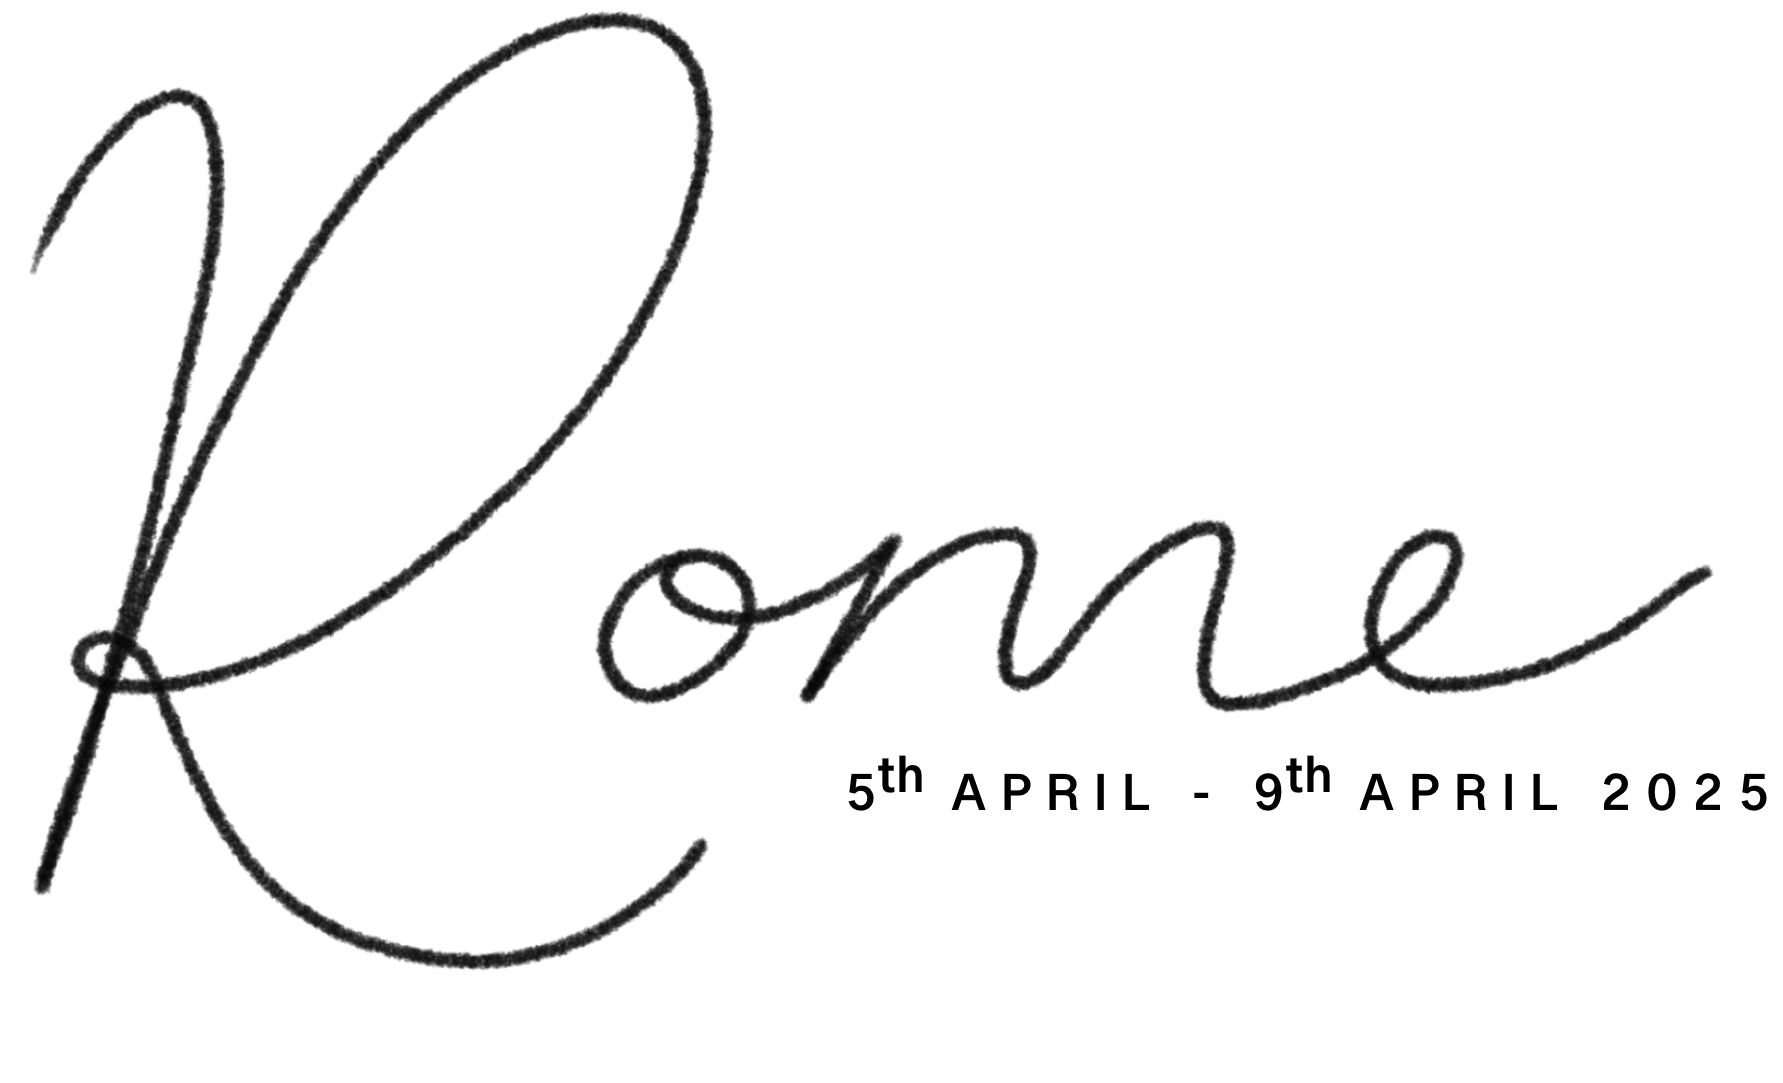
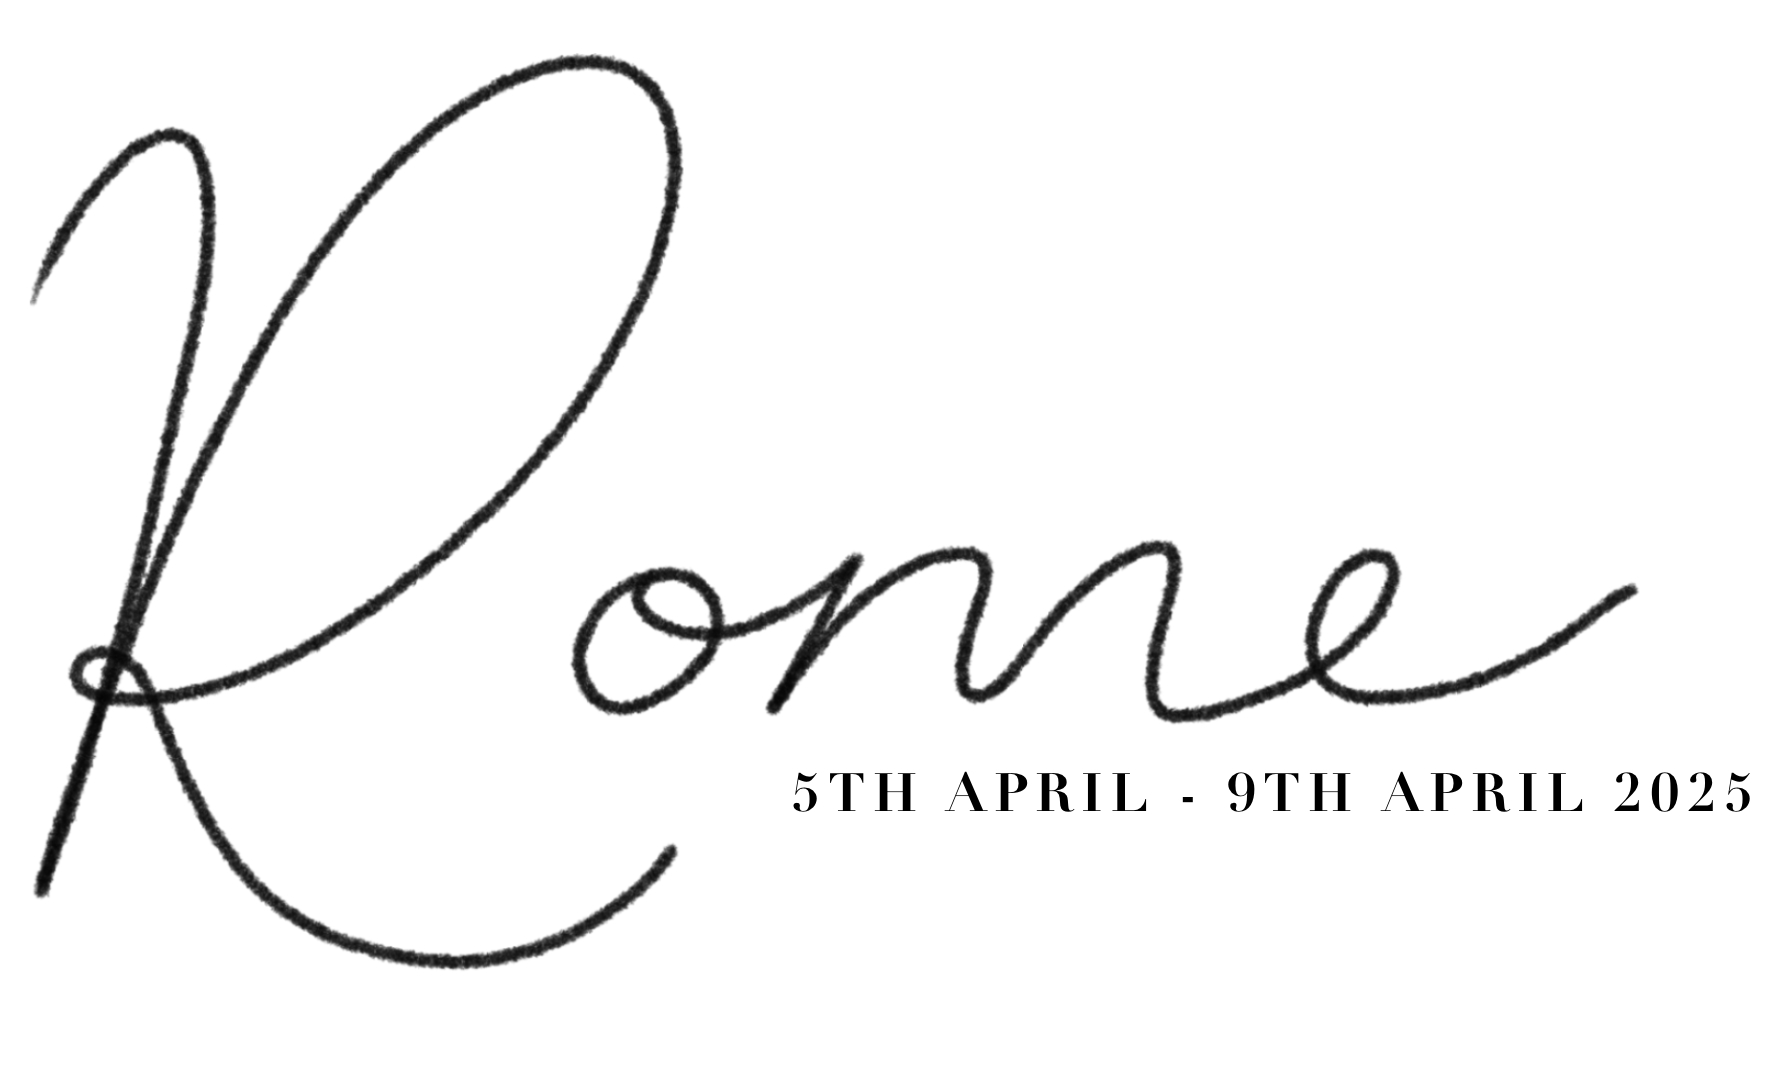
refined CSS and removed container div - added noted for learning

diff --git a/index.css b/index.css
@@ -1,122 +1,151 @@
+/* Define CSS variables for better consistency */
+:root {
+  --primary-font: 'GFS Didot', serif; /* Primary font */
+  --background-color: #f8f9fa; /* Background color for the page */
+  --button-bg: white; /* Default button background */
+  --button-hover-bg: #aeb0a4; /* Button background on hover */
+  --button-text: black; /* Default button text color */
+  --button-hover-text: white; /* Button text color on hover */
+}
+
+/* Apply global styles to the body */
 body {
-  font-family: 'Poppins', sans-serif;
-  background-color: #f8f9fa;
-  margin: 0;
+  font-family: var(--primary-font); /* Use the defined font */
+  background-color: var(--background-color); /* Set background color */
+  margin: 0; /* Remove default margin */
 }
 
-.hero {
-  position: relative;
-  display: flex; /* center content */
-  justify-content: center; /* centers the content horizontally */
-  height: 100vh; /* makes sure images stays the screen height */
-  object-fit: cover; /* makes sure image scales properly (doesnt distort)*/
-  overflow: hidden; /* prevents any overflow past the hero container */
+/* Style the background image */
+.background-hero-image {
+  position: absolute; /* Position it relative to the viewport */
+  z-index: -1; /* Ensure it stays in the background */
+  width: 100%; /* Cover full width of screen */
+  height: 100vh; /* Cover full height of screen */
+  object-fit: cover; /* Prevent distortion */
+  top: 0; /* Align to the top */
 }
 
-.hero-image {
-  position: absolute;
-  z-index: -1; /* makes sure image stays in the background */
-  width: 100%; /* makes sure images stays the screen width */
-  height: 100vh; /* makes sure images stays the screen height */
-  object-fit: cover; /* makes sure image scales properly (doesnt distort)*/
+/* Hero section styles */
+.hero-section {
+  position: absolute; /* Position it absolutely */
+  top: 50%; /* Move it to the center vertically */
+  left: 50%; /* Move it to the center horizontally */
+  transform: translate(-50%, -50%); /* Precisely center it */
+  display: flex; /* Use flexbox for layout */
+  justify-content: center; /* Center contents horizontally */
+  align-items: center; /* Center contents vertically */
+  flex-direction: column; /* Stack elements vertically */
+  background-color: rgba(255, 255, 255, 0.75); /* Semi-transparent background */
+  padding: 5% 10%; /* Responsive padding */
+  text-align: center; /* Center align text */
+  border-radius: 500px 500px 5px 5px; /* Apply rounded corners */
+  max-width: 700px; /* Restrict maximum width */
+  width: 90%; /* Make it responsive */
+  box-sizing: border-box; /* Include padding in width calculations */
 }
 
-.hero section {
-  z-index: 1; /* makes sure section stays above the background image */
-  background-color: rgba(255, 255, 255, 0.75);
-  padding: 5% 10%;
-  text-align: center;
-  border-radius: 500px 500px 5px 5px;
-  margin: 30px;
-  display: flex;
-  flex-direction: column;
-  justify-content: center; /* vertically center the content */
-  align-items: center; /* horizontally center the content */
-  max-height: calc(
-    100vh - 60px
-  ); /* makes sure the section height fits inside the viewport */
-  box-sizing: border-box; /* makes sure padding and margin are inside the element's box model */
-}
-
+/* Container for the heading */
 .hero-heading-container {
   position: relative;
 }
 
+/* Heading typography settings */
 .hero-heading-typography {
   position: relative;
-  width: 90%;
-  max-width: 500px;
-  margin-top: 50px;
+  width: 90%; /* Make responsive */
+  max-width: 500px; /* Set maximum width */
+  margin-top: 50px; /* Provide spacing from top */
 }
 
+/* Container for hero buttons */
 .hero-button-container {
-  display: flex;
-  flex-direction: column;
-  align-items: center;
-  margin: 20px 0;
-  width: 100%; /* makes sure the button container takes up the full width */
+  display: flex; /* Use flexbox for layout */
+  flex-direction: column; /* Stack buttons vertically */
+  align-items: center; /* Center align buttons */
+  margin: 20px 0; /* Add space around the container */
+  width: 100%; /* Ensure full width */
 }
 
+/* General button styles */
 .btn {
-  background-color: white;
-  border: none;
-  box-shadow: 3px 3px 5px rgba(0, 0, 0, 0.2);
-  color: black;
-  padding: 6px 60px;
-  margin: 5px 0;
-  font-size: 16px;
-  letter-spacing: 5px;
-  border-radius: 9px;
-  cursor: pointer;
-  width: 100%;
-  max-width: 600px; /* matches the width of hero-heading-typography */
+  background-color: var(--button-bg); /* Default button color */
+  font-family: var(--primary-font); /* Use the defined font */
+  border: none; /* Remove border */
+  box-shadow: 3px 3px 5px rgba(0, 0, 0, 0.2); /* Add subtle shadow */
+  color: var(--button-text); /* Set text color */
+  padding: 6px 60px; /* Add padding */
+  margin: 5px 0; /* Add spacing between buttons */
+  font-size: 16px; /* Set font size */
+  letter-spacing: 5px; /* Increase letter spacing */
+  border-radius: 9px; /* Round the corners */
+  cursor: pointer; /* Change cursor to pointer on hover */
+  width: 100%; /* Make responsive */
+  max-width: 600px; /* Set maximum width */
+  transition: background-color 0.3s ease, color 0.3s ease; /* Smooth hover effect */
 }
 
-.hero-button-container .btn {
-  width: 100%; /* makes sure the button width is responsive */
-  max-width: 600px; /* matches the width of .hero-heading-typography */
-}
-
+/* Button hover effect */
 .btn:hover {
-  background-color: #aeb0a4;
-  color: white;
+  background-color: var(--button-hover-bg); /* Change background on hover */
+  color: var(--button-hover-text); /* Change text color on hover */
 }
+
+/* Button focus effect for accessibility */
+.btn:focus {
+  outline: 3px solid var(--button-hover-bg); /* Add focus outline */
+}
+
+/* Keyframe animation for glide-in effect */
 @keyframes glideIn {
   0% {
-    transform: translateY(50px); /* Start from below the screen */
+    transform: translateY(50px); /* Start from below */
     opacity: 0; /* Start with opacity 0 */
   }
   100% {
-    transform: translateY(0); /* End at the original position */
-    opacity: 1; /* Fade in */
+    transform: translateY(0); /* End at normal position */
+    opacity: 1; /* Fully visible */
   }
 }
 
-/* Apply the glide-in effect to buttons */
+/* Apply animation to buttons */
 .hero-button-container .btn {
-  width: 100%;
-  max-width: 600px;
-  animation: glideIn 1s ease-out forwards; /* Apply the animation */
-  animation-delay: 0.3s; /* Optional: add a slight delay for the animation to start */
+  animation: glideIn 1s ease-out forwards; /* Apply animation */
 }
 
-/* Optional: Add a delay between buttons */
-.hero-button-container .btn:nth-child(1) {
+/* Apply incremental delays to buttons for a smooth effect */
+.hero-button-container .btn:nth-child(2) {
   animation-delay: 0.2s;
 }
-
-.hero-button-container .btn:nth-child(2) {
+.hero-button-container .btn:nth-child(3) {
   animation-delay: 0.3s;
 }
-.hero-button-container .btn:nth-child(3) {
+.hero-button-container .btn:nth-child(4) {
   animation-delay: 0.4s;
 }
-.hero-button-container .btn:nth-child(4) {
+.hero-button-container .btn:nth-child(5) {
   animation-delay: 0.5s;
 }
-.hero-button-container .btn:nth-child(5) {
+.hero-button-container .btn:nth-child(6) {
   animation-delay: 0.6s;
 }
-.hero-button-container .btn:nth-child(6) {
+.hero-button-container .btn:nth-child(7) {
   animation-delay: 0.7s;
+}
+
+/* Travel itinerary text styles */
+.travel-itinerary {
+  text-align: center; /* Center align text */
+  font-size: 20px; /* Set font size */
+  letter-spacing: 5px; /* Increase letter spacing */
+}
+
+/* Responsive adjustments for smaller screens */
+@media (max-width: 600px) {
+  .hero-section {
+    padding: 8% 5%; /* Reduce padding */
+  }
+  .btn {
+    font-size: 14px; /* Reduce font size */
+    padding: 6px 40px; /* Adjust padding */
+  }
 }

diff --git a/index.html b/index.html
@@ -9,10 +9,9 @@
     <link rel="preconnect" href="https://fonts.googleapis.com" />
     <link rel="preconnect" href="https://fonts.gstatic.com" crossorigin />
     <link
-      href="https://fonts.googleapis.com/css2?family=Montserrat:wght@100..900&family=Open+Sans:wght@300..800&family=Playfair+Display:wght@400..900&family=Poppins:wght@100..900&display=swap"
+      href="https://fonts.googleapis.com/css2?family=GFS+Didot&display=swap"
       rel="stylesheet"
     />
-
     <!-- Bootstrap CSS -->
     <!--<link
       href="https://cdn.jsdelivr.net/npm/bootstrap@5.3.3/dist/css/bootstrap.min.css"
@@ -21,36 +20,38 @@
       crossorigin="anonymous"
     /> -->
 
-    <!-- Custom CSS -->
+    <!-- CSS file -->
     <link rel="stylesheet" href="./index.css" />
   </head>
-  <body>
-    <!-- Hero Section -->
-    <div class="hero">
-      <img
-        src="./images/hero-img.jpeg"
-        alt="Trevi Fountain Sculpture"
-        class="hero-image"
-      />
 
-      <section class="hero">
+  <body>
+    <!--background hero image -->
+    <img
+      src="./images/hero-img.jpeg"
+      alt="Trevi Fountain Sculpture"
+      class="background-hero-image"
+    />
+    <!-- hero Section start -->
+    
+      <section class="hero-section">
         <div class="hero-heading-conainer">
-        <img
-          src="./images/rome-heading-w-date.png"
-          alt="Rome heading typography"
-          class="hero-heading-typography"
-        />
+          <img
+            src="./images/rome-heading-w-date.png"
+            alt="Rome heading typography"
+            class="hero-heading-typography"
+          />
         </div>
         <div class="hero-button-container">
-            <button class="btn">DAY 1</button>
-            <button class="btn">DAY 2</button>
-            <button class="btn">DAY 3</button>
-            <button class="btn">DAY 4</button>
-            <button class="btn">DAY 5</button>
-            <button class="btn">WEATHER</button>
+          <p class="travel-itinerary">TRAVEL ITINERARY</p>
+          <button class="btn">DAY 1</button>
+          <button class="btn">DAY 2</button>
+          <button class="btn">DAY 3</button>
+          <button class="btn">DAY 4</button>
+          <button class="btn">DAY 5</button>
+          <button class="btn">WEATHER</button>
         </div>
       </section>
-    </div>
-
+    <!-- Hero Section start end -->
+    <!-- day 1 itinery start -->
   </body>
 </html>
